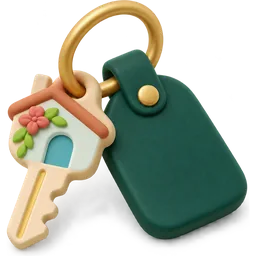
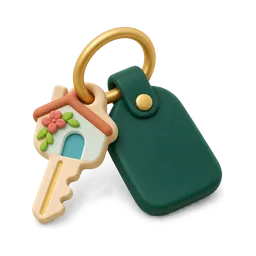
Görev 40.3: sekme başlıklarında görsel sola yaslı, üst çubuğa en az 12 pt
- Villalarım / Takvim / Hesap: yazı yine sayfanın tam ortasında; görsel sayfanın sol iç kenarına yaslı ("+ Villa ekle" ile aynı hiza).
  Yer yoksa önce küçülür, sonra gizlenir (38.2 gibi).
- Görselin dolu üstü ile üst çubuk arasında en az 12 pt (--baslik-ust-pay, her görselin --ust payı ile; padding-top).
- baslik-hesap (-256, -512) diğerleriyle aynı üst/alt şeffaf payla (~%10) yeniden kırpıldı: anahtarlık çubuğa yapışmıyor.

diff --git a/www/index.html b/www/index.html
@@ -100,6 +100,7 @@
     --g3d-bolum-bas:56px;         /* 39.3 içerik bölümü başlığının başındaki görsel (çizgi ikonun yerinde) */
     --g3d-bolum-bas-kucuk:40px;   /* aynı görsel: dar ekranda (380 pt ve altı) ve büyük yazıda */
     --g3d-bolum-bas-boy:max(var(--g3d-bolum-bas-kucuk), calc(var(--g3d-bolum-bas) - (1rem - 17px) * 8));   /* yazı büyüdükçe 56 → 40 */
+    --baslik-ust-pay:12.5px;      /* 40.3 sekme başlık görselinin dolu üstü ile üst çubuk arasında en az 12 pt (+ yuvarlama payı) */
     --vb-foto:43%;                /* 40.1 villa kartının sağındaki kare fotoğraf: kartın iç genişliğinin %43'ü ≈ kartın %38'i (390 pt'de ≈ 130 pt) */
     --vb-foto-kucuk:96px;         /* aynı fotoğraf: villa adı sığmazsa (dar ekran / büyük yazı) */
     --vb-foto-kose:16px;          /* fotoğrafın köşesi */
@@ -1474,7 +1475,8 @@
      baslikGorselDurum gizler. Yazı tek satır, kesilmez */
   h1.h1G:has(> .baslikGK){display:grid; grid-template-columns:minmax(0,1fr) auto minmax(0,1fr); justify-content:center; gap:0}
   h1.h1G > .baslikGK + span{grid-column:2; white-space:nowrap; max-width:none}
-  .baslikGK{--ara:10px; grid-column:1; min-width:0; display:flex; align-items:center; justify-content:flex-end; padding-right:var(--ara);
+  /* 40.3: görsel sol sütunda sola yaslı (sol kenarı sayfanın sol iç kenarında, "+ Villa ekle" ile aynı hizada); yazının yeri değişmez */
+  .baslikGK{--ara:10px; grid-column:1; min-width:0; display:flex; align-items:center; justify-content:flex-start; padding-right:var(--ara);
     height:var(--g3d-baslik-boy); margin:calc(var(--g3d-baslik-boy) / -2 + 1.125rem) 0; pointer-events:none}
   .baslikG{flex:none; display:block; object-fit:contain; width:var(--g3d-baslik-boy); max-width:100%;
     height:auto; aspect-ratio:1/1; pointer-events:none}
@@ -1483,13 +1485,17 @@
      38.1: karar JS'te (baslikGorselDurum → h1.gorselGizli; boş hâl yüzündense ayrıca .gorselBos). Eskiden :has(.bosHal…) ve
      container sorgusuydu; görsel display:none iken baslikGuncelle yüksekliği 0 ölçüp görsele kalıcı opacity:0 yazıyordu */
   .baslikGK{transition:opacity var(--hiz-ac) var(--egri-gecis), visibility 0s linear 0s}
-  h1.h1G:has(> .baslikGK){transition:margin-bottom var(--hiz-ac) var(--egri-gecis)}
+  h1.h1G:has(> .baslikGK){transition:margin-bottom var(--hiz-ac) var(--egri-gecis), padding-top var(--hiz-ac) var(--egri-gecis)}
   h1.gorselGizli .baslikGK{opacity:0; visibility:hidden;
     transition:opacity var(--hiz-ac) var(--egri-gecis), visibility 0s linear var(--hiz-ac)}
-  h1.h1G.gorselBos:has(> .baslikGK), .anaBas h1.h1G.gorselBos:has(> .baslikGK){margin-bottom:.25rem}
+  h1.h1G.gorselBos:has(> .baslikGK), .anaBas h1.h1G.gorselBos:has(> .baslikGK){margin-bottom:.25rem; padding-top:0}
   @media (prefers-reduced-motion: reduce){ .baslikGK, h1.h1G:has(> .baslikGK){transition-duration:var(--hiz-azalt)} }
   /* görselin dolu (şeffaf olmayan) kısmı ile alttaki öğe arasında en az 8 pt: --alt görselin alttaki şeffaf payı */
   h1.h1G:has(> .baslikGK){margin-bottom:max(0px, calc(var(--g3d-baslik-boy) * (.5 - var(--alt, 0)) - 1.125rem + 8px))}
+  /* 40.3 görselin dolu üstü ile üst çubuğun alt kenarı arasında en az 12 pt (--baslik-ust-pay). --ust: görselin üstteki şeffaf payı;
+     başlığın üstünde zaten 1.5rem var (çubuk ile ekranın başı arası), eksik kalan kadar başlık aşağı iner. margin değil padding:
+     Takvim / Hesap'ta başlığın margin'i üstteki boşlukla birleşip (collapse) yutuluyordu */
+  h1.h1G:has(> .baslikGK){padding-top:max(0px, calc(var(--g3d-baslik-boy) * (.5 - var(--ust, 0)) - 1.125rem + var(--baslik-ust-pay) - 1.5rem))}
   @media (max-width:380px){ :root{--g3d-baslik-boy:var(--g3d-baslik-kucuk)} }
   /* 37.2 "+ Villa ekle" solda, dolu / boş etiketleri aynı satırın sağ ucunda, dikey ortalı. Sığmazsa etiketler alt satıra iner
      ve sola yaslanır (sol kenarı "Villa ekle" ile aynı); hiçbir genişlikte sağda tek başına durmaz */
@@ -2176,7 +2182,7 @@
     <!-- 32.7: çift satış riski (kapatılamaz; çözülünce kalkar) -->
     <div id="cakismaKartlar" class="hide"></div>
     <!-- 18.15: başlığın sağında dolu / boş etiketleri (dar ekranda alta iner); altında yalnız "+ Villa ekle" -->
-    <div class="anaBas"><h1 class="h1G" style="--alt:.098"><span class="baslikGK"><img class="baslikG" src="img/3d/baslik-villalar-512.webp" srcset="img/3d/baslik-villalar-256.webp 256w, img/3d/baslik-villalar-512.webp 512w" sizes="(max-width:380px) 64px, 88px" alt="" aria-hidden="true" width="256" height="256" loading="lazy" decoding="async" onerror="this.remove()"></span><span>Villalarım</span></h1></div>
+    <div class="anaBas"><h1 class="h1G" style="--ust:.098; --alt:.1"><span class="baslikGK"><img class="baslikG" src="img/3d/baslik-villalar-512.webp" srcset="img/3d/baslik-villalar-256.webp 256w, img/3d/baslik-villalar-512.webp 512w" sizes="(max-width:380px) 64px, 88px" alt="" aria-hidden="true" width="256" height="256" loading="lazy" decoding="async" onerror="this.remove()"></span><span>Villalarım</span></h1></div>
     <!-- 37.2: "+ Villa ekle" solda, dolu / boş etiketleri aynı satırın sağ ucunda -->
     <div class="anaSatir"><div class="hapSira hide" id="anaHap" role="toolbar"></div><div class="sm muted" id="ozet"></div></div>
     <div class="siraIpucu hide" id="siraIpucu"></div>
@@ -2204,7 +2210,7 @@
 
   <!-- TAKVİM SEKMESİ: tüm villaların yaklaşan giriş/çıkışları -->
   <div id="ajanda" class="hide sekmeEkran">
-    <h1 class="h1G" style="--alt:.115"><span class="baslikGK"><img class="baslikG" src="img/3d/baslik-takvim-512.webp" srcset="img/3d/baslik-takvim-256.webp 256w, img/3d/baslik-takvim-512.webp 512w" sizes="(max-width:380px) 64px, 88px" alt="" aria-hidden="true" width="256" height="256" loading="lazy" decoding="async" onerror="this.remove()"></span><span>Takvim</span></h1>
+    <h1 class="h1G" style="--ust:.113; --alt:.117"><span class="baslikGK"><img class="baslikG" src="img/3d/baslik-takvim-512.webp" srcset="img/3d/baslik-takvim-256.webp 256w, img/3d/baslik-takvim-512.webp 512w" sizes="(max-width:380px) 64px, 88px" alt="" aria-hidden="true" width="256" height="256" loading="lazy" decoding="async" onerror="this.remove()"></span><span>Takvim</span></h1>
     <!-- 33.7: iki parça: Ajanda (giriş / çıkışlar) | Misafirler (bütün villaların misafirleri) -->
     <div class="seg ajUst" id="ajUst" role="tablist">
       <button data-u="ajanda" role="tab">Ajanda</button><button data-u="misafir" role="tab">Misafirler</button>
@@ -2230,7 +2236,7 @@
 
   <!-- HESAP SEKMESİ -->
   <div id="hesapEkran" class="hide sekmeEkran">
-    <h1 class="h1G" style="--alt:0"><span class="baslikGK"><img class="baslikG" src="img/3d/baslik-hesap-512.webp" srcset="img/3d/baslik-hesap-256.webp 256w, img/3d/baslik-hesap-512.webp 512w" sizes="(max-width:380px) 64px, 88px" alt="" aria-hidden="true" width="256" height="256" loading="lazy" decoding="async" onerror="this.remove()"></span><span>Hesap</span></h1>
+    <h1 class="h1G" style="--ust:.104; --alt:.105"><span class="baslikGK"><img class="baslikG" src="img/3d/baslik-hesap-512.webp" srcset="img/3d/baslik-hesap-256.webp 256w, img/3d/baslik-hesap-512.webp 512w" sizes="(max-width:380px) 64px, 88px" alt="" aria-hidden="true" width="256" height="256" loading="lazy" decoding="async" onerror="this.remove()"></span><span>Hesap</span></h1>
     <div style="margin-top:1.25rem">
     <!-- 29.3: Yönetim bölümü yalnız yöneticiye / onaycıya JavaScript ile eklenir (diğer kullanıcılarda DOM'da hiç yok) -->
     <div id="yonetimYer"></div>

diff --git a/www/sw.js b/www/sw.js
@@ -3,7 +3,7 @@
 
 // Sürüm: her yayında artırılır. Dosya değişince telefonlar yeni servisi kurar;
 // açılışta eski sürümlerden kalan önbellekler silinir, böylece eski ekran kalmaz.
-var SURUM = "vt-2026-11-24-gorev40b";
+var SURUM = "vt-2026-11-24-gorev40c";
 
 self.addEventListener("install", function (e) {
   self.skipWaiting();

diff --git a/docs/STIL.md b/docs/STIL.md
@@ -279,7 +279,11 @@ ile işaretlenir (iki kez çarpılmasın).
     çizgi ikonla kalır. Görsel yüklenemezse çizgi ikon kalır.
     Bölümde büyük boş hâl görseli (ya da boş hâl çizimi) görünüyorsa başlıkta görsel olmaz, çizgi ikon döner (Görev 39.4);
     karar JS'te (`bolumGorselDurum`, `:has()` değil), DOM değişince bir sonraki kareden önce; gelen öğe `--hiz-ac` ile solarak gelir.
-  - Sekme başlıkları (Görev 37.1, 38.2): yazı sayfanın tam ortasında, görsel hemen solunda; arada 10 pt, dikey ortalı. Üç sütun
+  - Sekme başlıkları (Görev 37.1, 38.2, 40.3): yazı sayfanın tam ortasında; görsel sol sütunda **sola yaslı** (sol kenarı sayfanın
+    sol iç kenarında, "+ Villa ekle" ile aynı hizada, Görev 40.3), yazıyla en az 10 pt ara, dikey ortalı. Görselin dolu üstü ile
+    üst çubuğun alt kenarı arasında en az 12 pt (`--baslik-ust-pay`; `--ust`: görselin üstteki şeffaf payı, başlık gerekirse
+    `padding-top` ile aşağı iner — margin Takvim / Hesap'ta üstteki boşlukla birleşip yutuluyordu). Üç görselin üst / alt şeffaf
+    payı aynı (~%10; `baslik-hesap` Görev 40.3'te buna göre yeniden kırpıldı). Üç sütun
     (`1fr · yazı · 1fr`): görsel ortalamaya dahil değil, gelip gidince yazı kımıldamaz. Yazı hiç bölünmez, kesilmez: sol sütun
     darsa görsel önce küçülür (en az 48 pt), sonra gizlenir. Alt satırdaki etiketler ve "+ Villa ekle" sola yaslı kalır. Görselin dolu kısmı ile alttaki öğe arasında en az 8 pt (`--alt`: görselin
     alttaki şeffaf payı; başlığın alt boşluğu buna göre).
